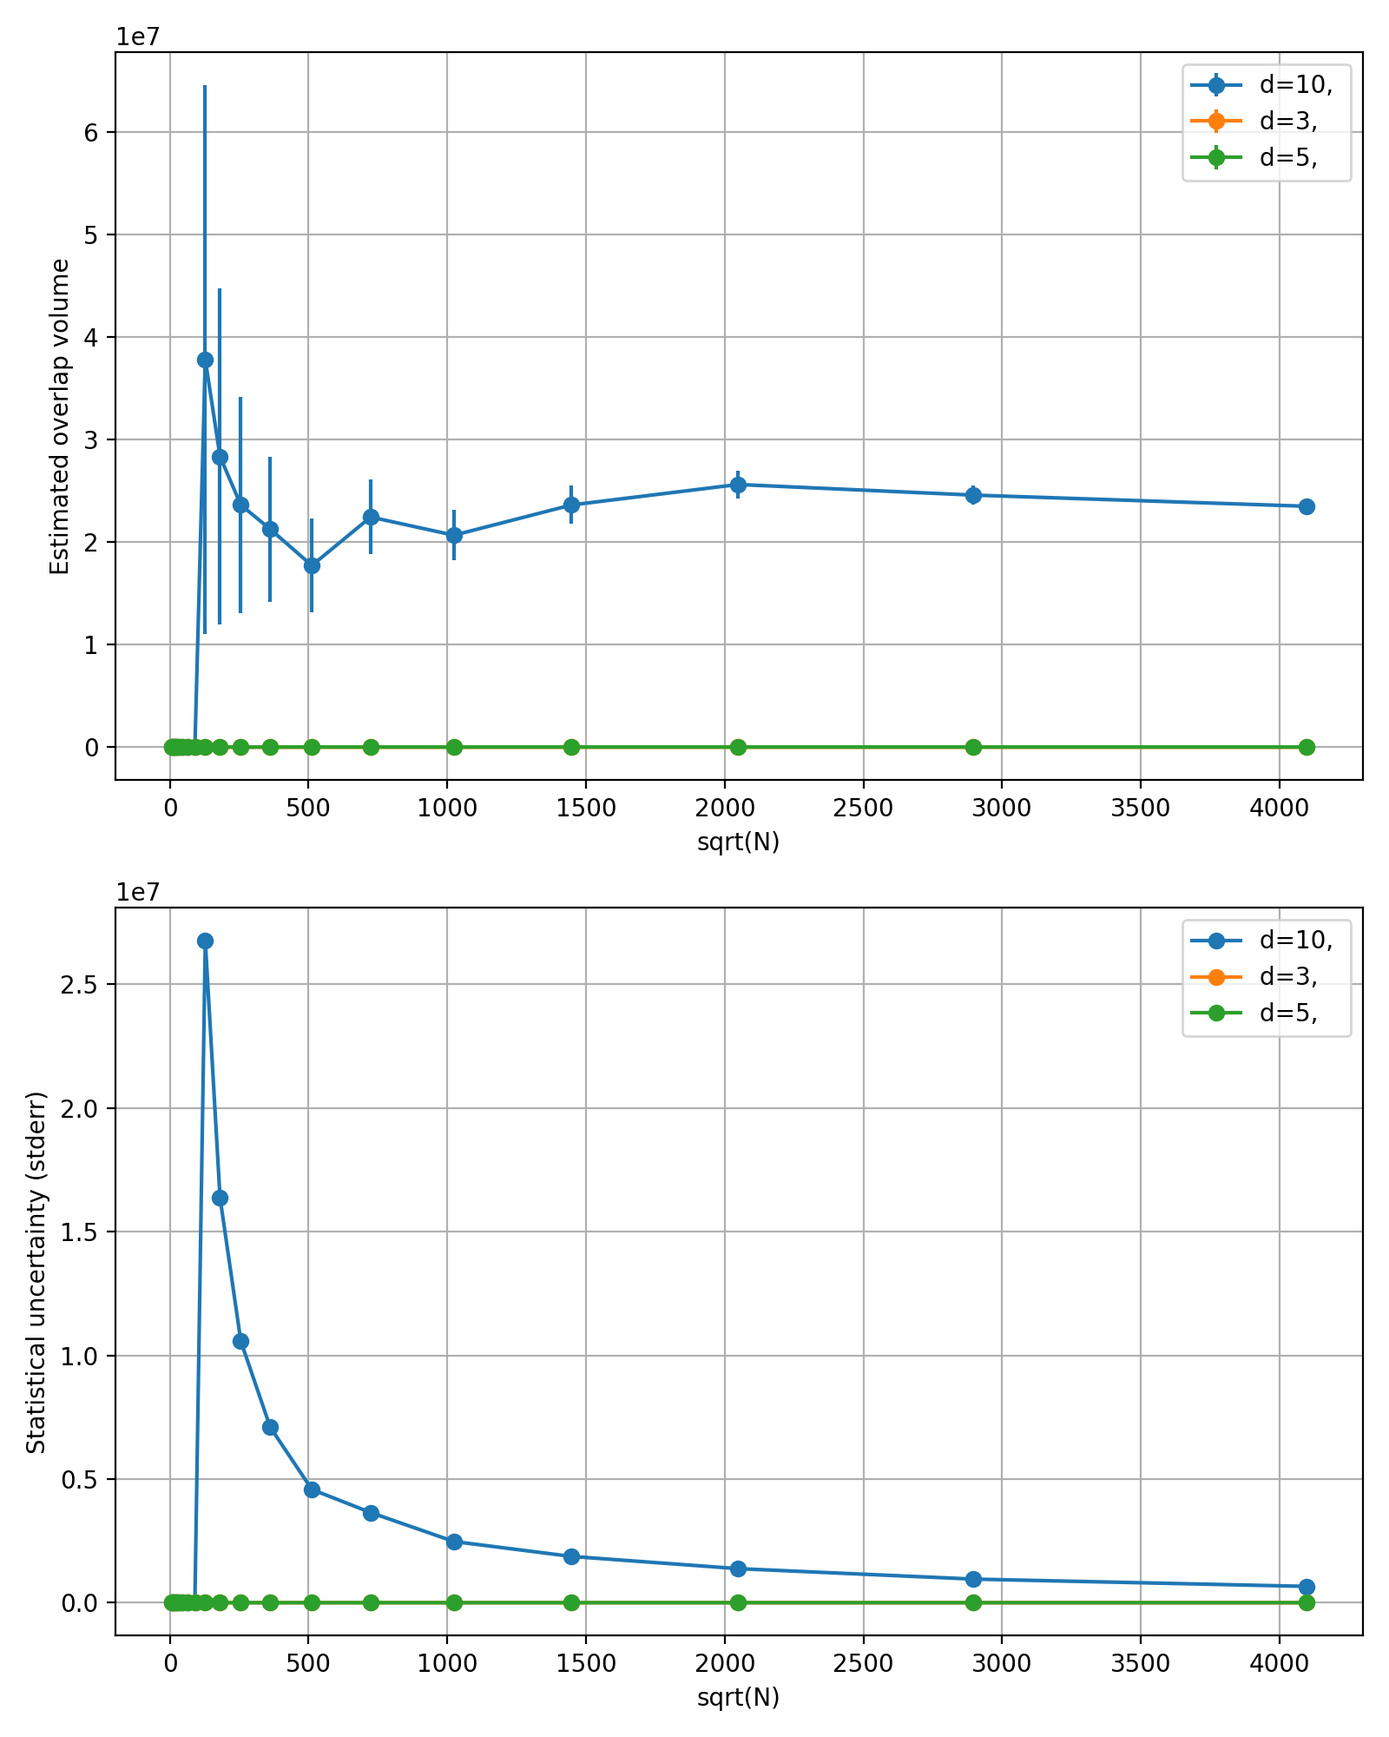
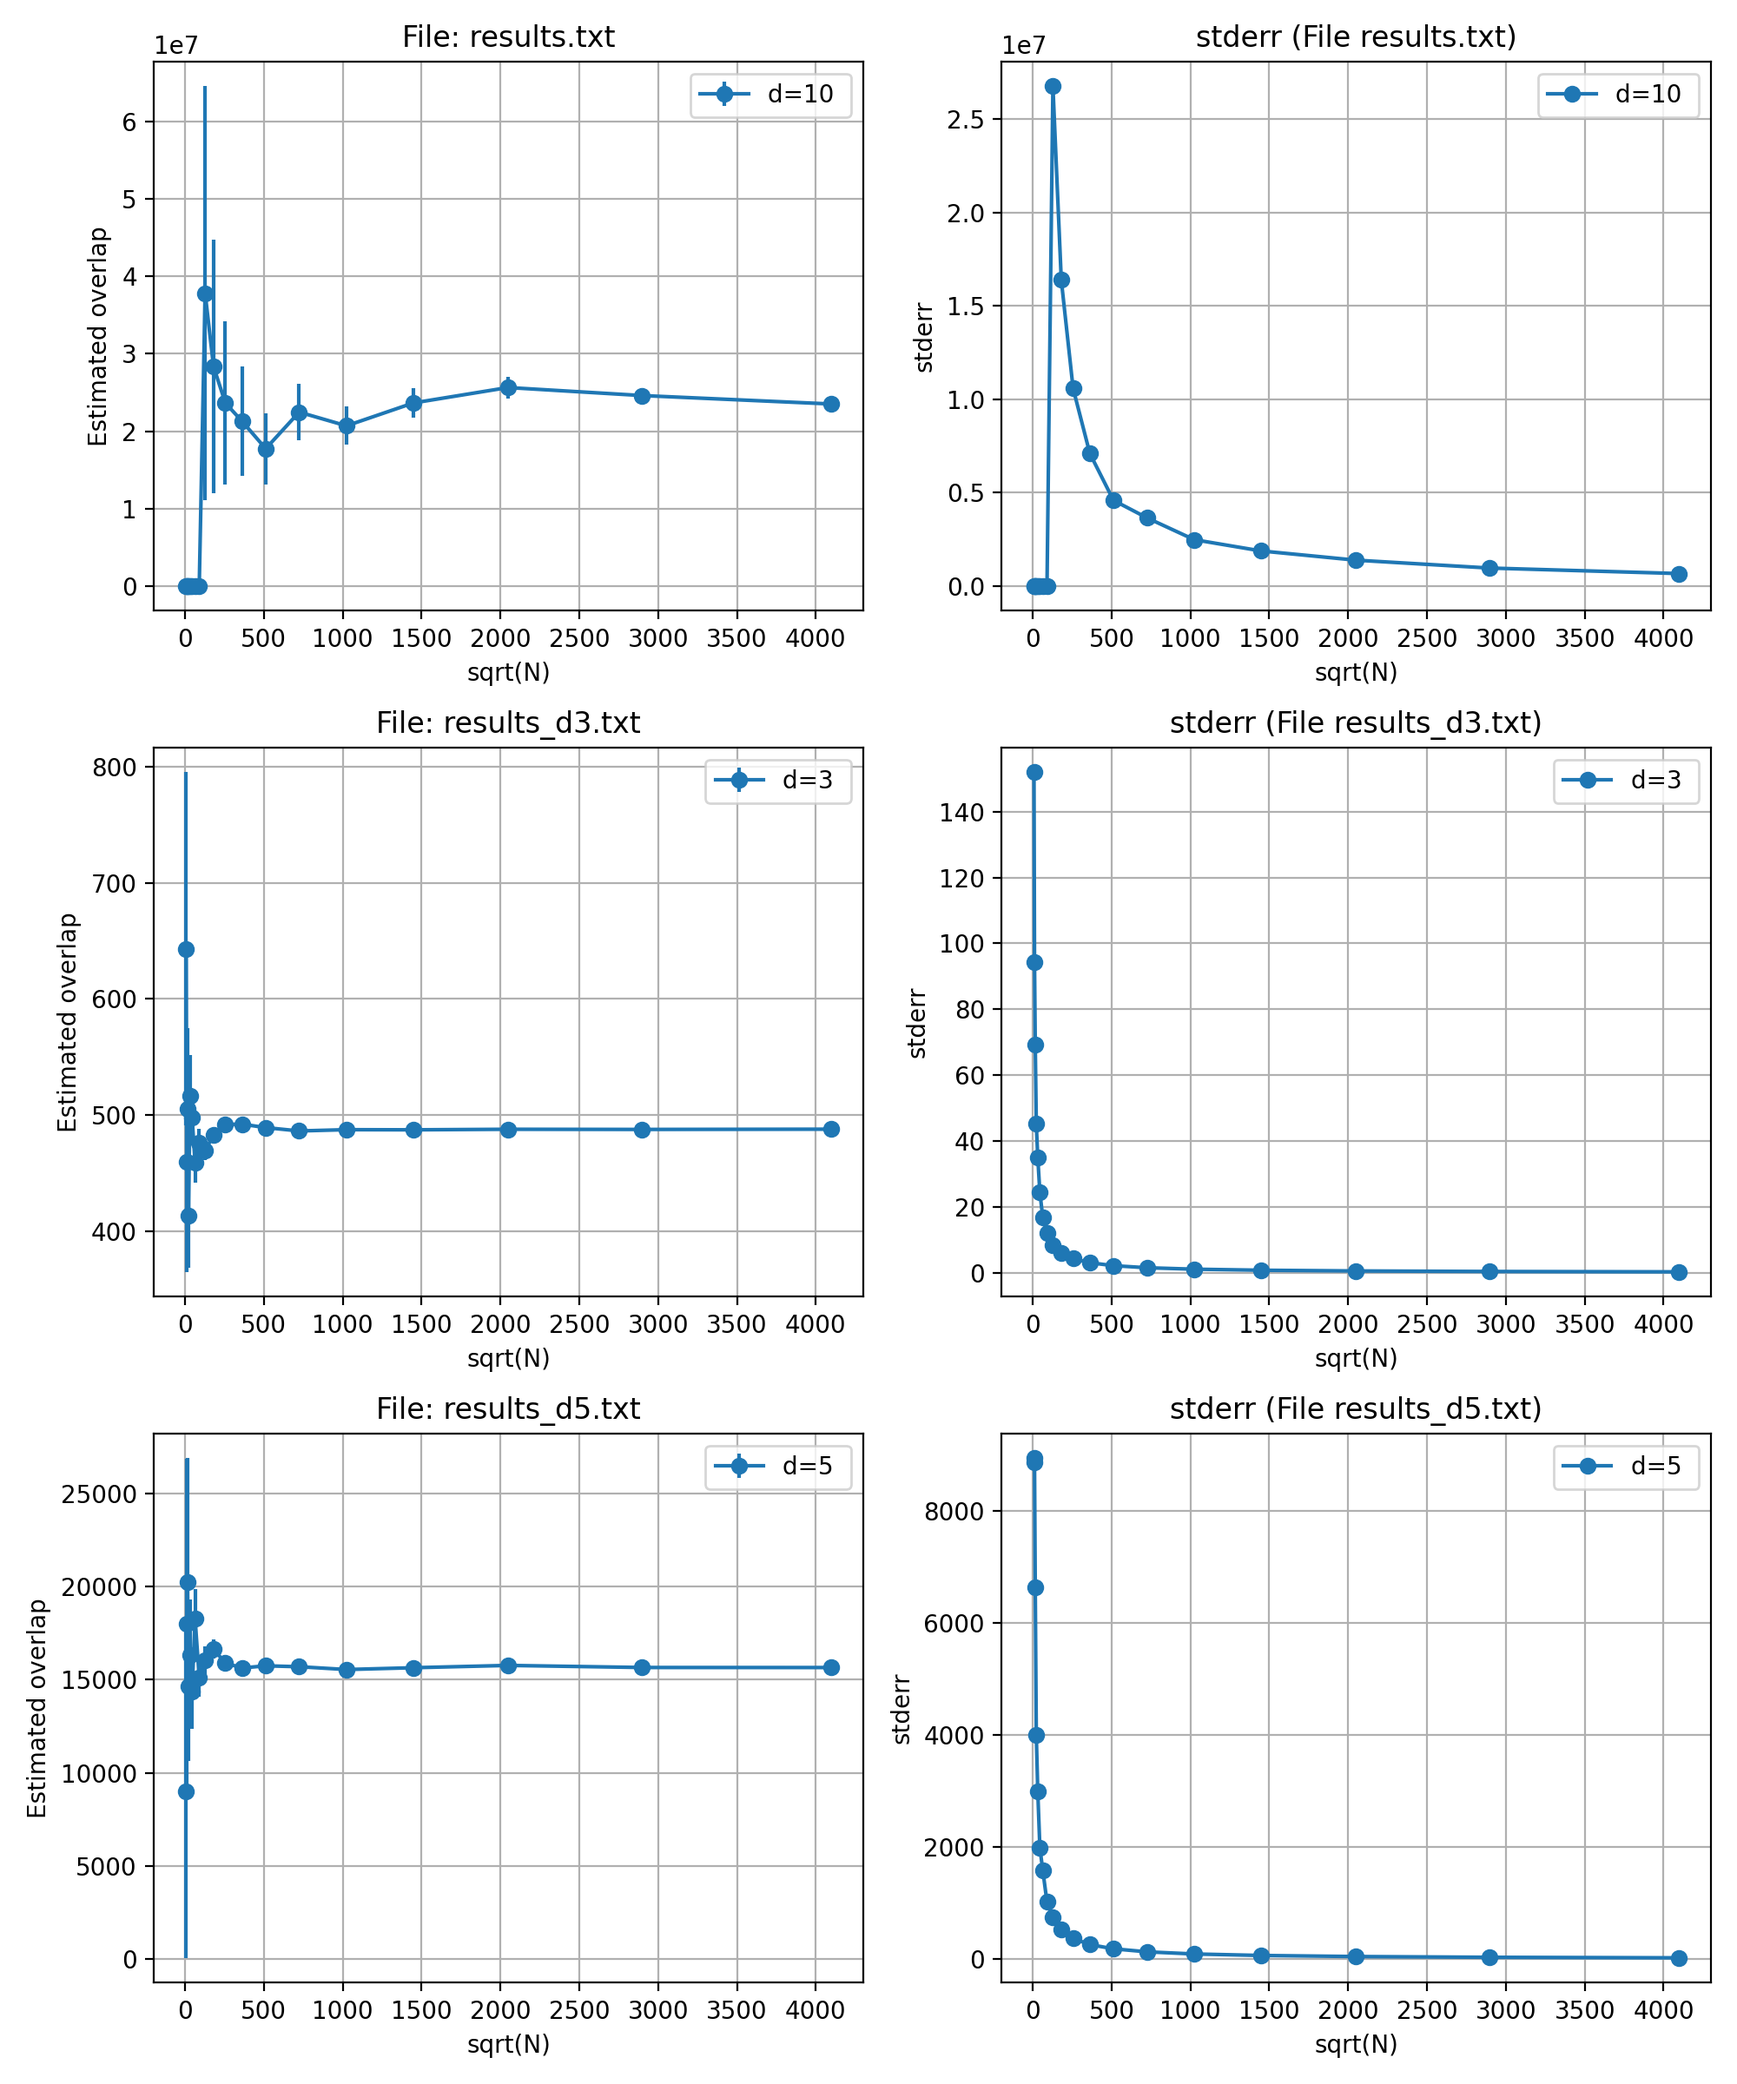
Update some of the graphing for one of the plots

Changed region(s): [[0.0, 0.0, 1.0, 0.992], [0.8438, 0.775, 0.875, 0.806], [0.8438, 0.186, 0.875, 0.217]]

diff --git a/plot.py b/plot.py
@@ -5,53 +5,60 @@ import argparse
 
 def load_results(file):
     data = np.loadtxt(file, comments="#")
-    # columns: d, N, estimate, stderr
     dcol = data[:,0].astype(int)
     N = data[:,1].astype(int)
     est = data[:,2]
     err = data[:,3]
     return dcol, N, est, err
 
-def make_plot(files, analytic3=None, output="convergence.png"):
-    """
-    files: list of (filename, label) pairs
-    analytic3: if provided, a float giving the analytic overlap in d=3
-    """
-    plt.figure(figsize=(8, 10))
+def make_combined_plot(files, analytic3=None, output="convergence.png"):
+    n = len(files)
+    if n == 0:
+        print("No files given.")
+        return
 
-    # Upper subplot: estimates with error bars
-    ax1 = plt.subplot(2, 1, 1)
-    for (fn, label) in files:
-        dcol, N, est, err = load_results(fn)
-        # all runs in a file share same d, so pick first
-        d = dcol[0]
-        ax1.errorbar(np.sqrt(N), est, yerr=err, fmt='o-', label=f"d={d}, {label}")
-    if analytic3 is not None:
-        # draw horizontal line
-        ax1.axhline(analytic3, color='red', linestyle='--', label="analytic 3D")
-    ax1.set_xlabel("sqrt(N)")
-    ax1.set_ylabel("Estimated overlap volume")
-    ax1.legend()
-    ax1.grid(True)
+    # Layout: n rows × 2 columns (left: estimate, right: stderr)
+    fig, axes = plt.subplots(nrows=n, ncols=2, figsize=(10, 4*n), squeeze=False)
 
-    # Lower subplot: uncertainty vs N (log-log)
-    ax2 = plt.subplot(2, 1, 2)
-    for (fn, label) in files:
+    for i, (fn, label) in enumerate(files):
         dcol, N, est, err = load_results(fn)
         d = dcol[0]
-        ax2.plot(np.sqrt(N), err, 'o-', label=f"d={d}, {label}")
-    ax2.set_xlabel("sqrt(N)")
-    ax2.set_ylabel("Statistical uncertainty (stderr)")
-    ax2.legend()
-    ax2.grid(True)
+
+        ax_est = axes[i][0]
+        ax_err = axes[i][1]
+
+        # Estimate plot
+        ax_est.errorbar(np.sqrt(N), est, yerr=err, fmt='o-', label=f"d={d} {label}")
+        if analytic3 is not None and d == 3:
+            ax_est.axhline(analytic3, color='red', linestyle='--', label="analytic 3D")
+        ax_est.set_xlabel("sqrt(N)")
+        ax_est.set_ylabel("Estimated overlap")
+        ax_est.legend()
+        ax_est.grid(True)
+
+        # Uncertainty (stderr) plot
+        ax_err.plot(np.sqrt(N), err, 'o-', label=f"d={d} {label}")
+        ax_err.set_xlabel("sqrt(N)")
+        ax_err.set_ylabel("stderr")
+        ax_err.legend()
+        ax_err.grid(True)
+
+        # You might add a title for each row
+        ax_est.set_title(f"File: {fn}")
+        ax_err.set_title(f"stderr (File {fn})")
 
     plt.tight_layout()
     plt.savefig(output, dpi=200)
-    print(f"Saved plot to {output}")
+    fig.subplots_adjust(
+        left=0.1, right=0.95, top=0.95, bottom=0.05,
+        wspace=0.4,  # horizontal space between columns
+        hspace=0.6   # vertical space between rows
+    )
+    print(f"Saved combined plot to {output}")
     plt.show()
 
 def main():
-    parser = argparse.ArgumentParser(description="Plot convergence from Monte Carlo output files")
+    parser = argparse.ArgumentParser(description="Plot all results together in one figure")
     parser.add_argument("files", nargs="+", help="Result files, e.g. results_d3.txt results_d5.txt")
     parser.add_argument("--analytic3", type=float, default=None,
         help="Optional analytic overlap value in 3D to draw reference line")
@@ -59,7 +66,7 @@ def main():
     args = parser.parse_args()
 
     file_labels = [(fn, "") for fn in args.files]
-    make_plot(file_labels, analytic3=args.analytic3, output=args.out)
+    make_combined_plot(file_labels, analytic3=args.analytic3, output=args.out)
 
 if __name__ == "__main__":
     main()
